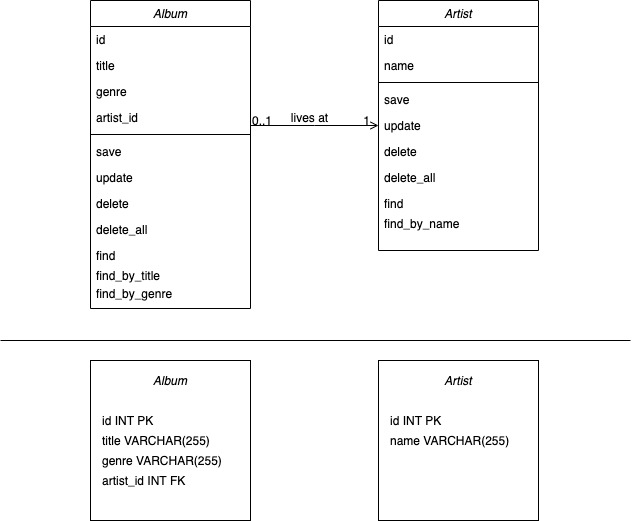
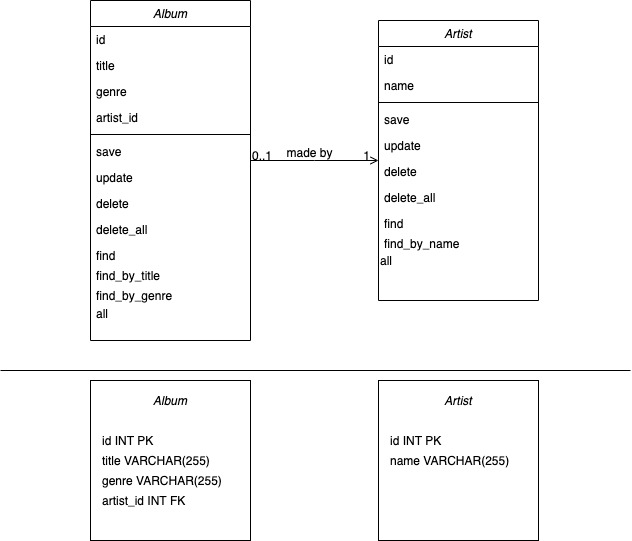
artist list all working

diff --git a/models/artist.rb b/models/artist.rb
@@ -28,6 +28,12 @@ class Artist
         result = SqlRunner.run(sql, values)
     end
 
+    def self.all()
+        sql= "SELECT * FROM artists"
+        result = SqlRunner.run(sql)
+        return result.map { |artist| Artist.new(artist) }
+    end
+
     def delete()
         sql = "DELETE FROM artists 
         WHERE id = $1"

diff --git a/console.rb b/console.rb
@@ -10,7 +10,5 @@ artist_1.save()
 artist_2 = Artist.new( {'name' => 'Fairport Convention'} )
 artist_2.save()
 
-artist_1.delete()
-
 binding.pry
 nil
